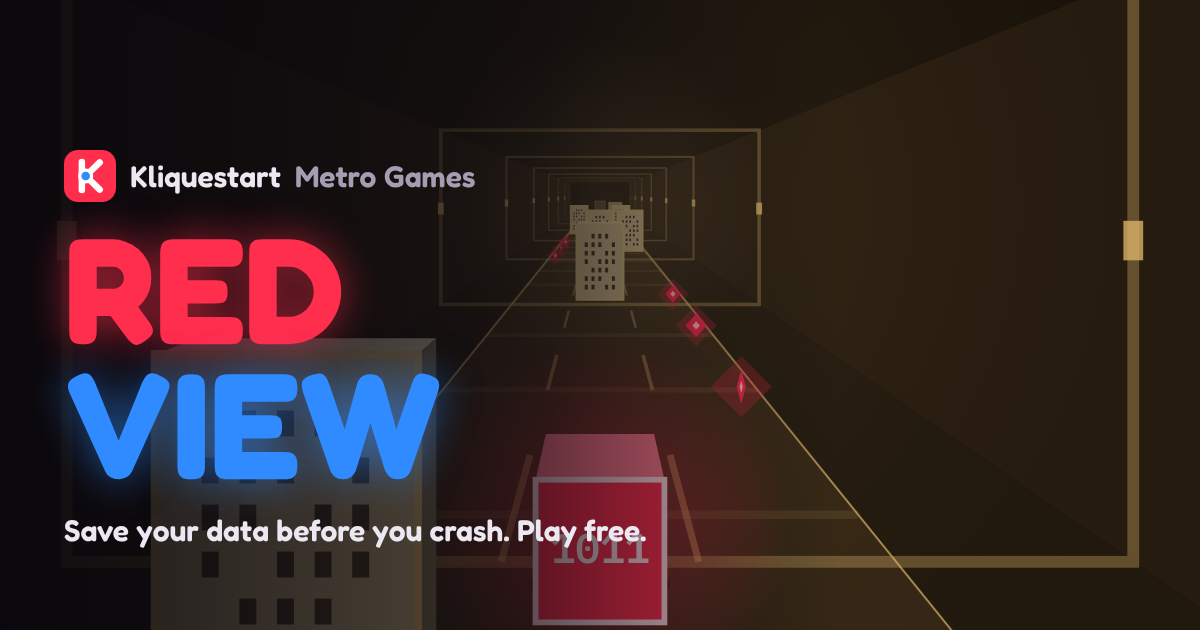
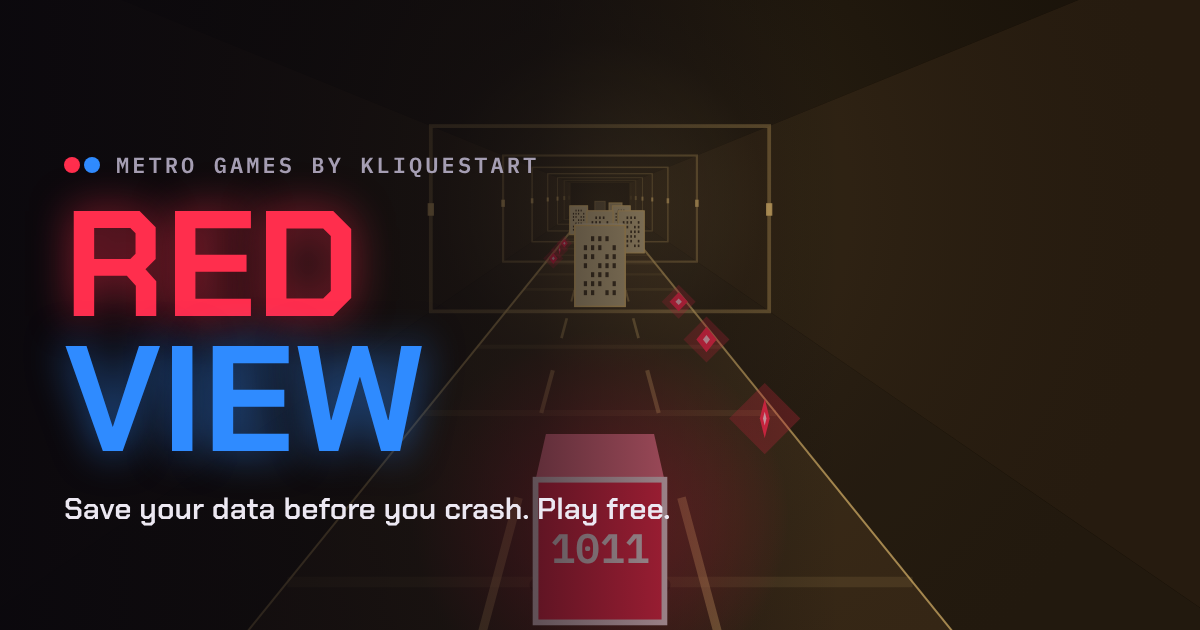
Restore original font and red-blue dots; rename to Metro Games by Kliquestart
- Back to Chakra Petch + IBM Plex Mono on the site and in the game
- Header and favicon back to the red and blue dots
- Brand line is now 'Metro Games by Kliquestart'
- Remove 'Owned by The Opinion Cut' and the contact email everywhere
- Regenerate social preview and icons

Claude-Session: https://claude.ai/code/session_015gerX6gSQdb389PLvD7BYD

diff --git a/games/red-view/play/index.html b/games/red-view/play/index.html
@@ -3,7 +3,7 @@
 <head>
 <meta charset="utf-8">
 <meta name="viewport" content="width=device-width, initial-scale=1, maximum-scale=1, user-scalable=no, viewport-fit=cover">
-<title>Play Red View – Free Online Runner | Kliquestart Metro Games</title>
+<title>Play Red View – Free Online Runner | Metro Games by Kliquestart</title>
 <meta name="description" content="Play Red View now: a free metro runner where you carry red data through 10 eras of tech and save it at blue gates.">
 <link rel="canonical" href="https://www.kliquestart.com/games/red-view/play/">
 <meta name="theme-color" content="#09070d">
@@ -17,7 +17,7 @@
 <!-- ANALYTICS: paste your Google Analytics or Cloudflare Web Analytics snippet here -->
 <link rel="preconnect" href="https://fonts.googleapis.com">
 <link rel="preconnect" href="https://fonts.gstatic.com" crossorigin>
-<link rel="stylesheet" href="https://fonts.googleapis.com/css2?family=Fredoka:wght@500;600;700&family=Nunito:wght@400;600;700&family=IBM+Plex+Mono:wght@400;600&display=swap">
+<link rel="stylesheet" href="https://fonts.googleapis.com/css2?family=Chakra+Petch:wght@500;600;700&family=IBM+Plex+Mono:wght@400;600&display=swap">
 <style>
 /* Layout: full-bleed canvas tunnel; HTML panels float over it like station signage. Single deliberate dark look. */
 :root{
@@ -29,7 +29,7 @@
   --red:#ff2e4d;            /* data, unsaved */
   --blue:#2f8bff;           /* saved */
   --gold:#f0c674;
-  --display:"Fredoka", "Nunito", "Segoe UI", system-ui, sans-serif;
+  --display:"Chakra Petch", "Segoe UI", system-ui, sans-serif;
   --mono:"IBM Plex Mono", ui-monospace, "SFMono-Regular", Menlo, monospace;
   color-scheme:dark;
 }
@@ -145,7 +145,7 @@ h1,h2,h3{margin:0;text-wrap:balance}
 
 <div id="menu" class="screen">
   <div class="panel">
-    <div class="eyebrow">Kliquestart Metro Games</div>
+    <div class="eyebrow">Metro Games by Kliquestart</div>
     <h1 class="logo"><span class="r">RED</span><span class="b">VIEW</span></h1>
     <p class="tag"><span class="r">Red</span> is your data. <span class="b">Blue</span> is saved. Run it through the tunnel from punch cards to quantum chips and get it saved before you crash.</p>
     <div class="btns">
@@ -748,7 +748,7 @@ function drawGate(z,label,fog){
   box(1.72,.08,0,2.1,z,z+.2,BLUE,'#7db6ff','#1d5fb8',null);
   const r=box(0,1.8,1.85,2.15,z,z+.2,BLUE,'#7db6ff','#1d5fb8',null);
   if(r && r.h>8){ ctx.fillStyle='#fff'; ctx.textAlign='center'; ctx.textBaseline='middle';
-    ctx.font=`700 ${Math.min(r.h*.75,64)}px "Fredoka", system-ui, sans-serif`; ctx.fillText(label,r.x+r.w/2,r.y+r.h/2+1); }
+    ctx.font=`700 ${Math.min(r.h*.75,64)}px "Chakra Petch", system-ui, sans-serif`; ctx.fillText(label,r.x+r.w/2,r.y+r.h/2+1); }
   ctx.globalAlpha=1;
 }
 function drawPlayer(g){
@@ -811,7 +811,7 @@ function renderGame(){
   // particles & texts
   for(const p of g.parts){ ctx.globalAlpha=Math.max(0,p.life); ctx.fillStyle=p.col; ctx.fillRect(p.x-p.size/2,p.y-p.size/2,p.size,p.size); }
   ctx.textAlign='center'; ctx.textBaseline='middle';
-  for(const t of g.texts){ ctx.globalAlpha=Math.min(1,t.life*1.5); ctx.fillStyle=t.col; ctx.font='700 22px "Fredoka", system-ui, sans-serif'; ctx.fillText(t.text,t.x,t.y); }
+  for(const t of g.texts){ ctx.globalAlpha=Math.min(1,t.life*1.5); ctx.fillStyle=t.col; ctx.font='700 22px "Chakra Petch", system-ui, sans-serif'; ctx.fillText(t.text,t.x,t.y); }
   ctx.globalAlpha=1;
   if(g.flashT>0){ ctx.globalAlpha=g.flashT*.9; ctx.fillStyle=g.flashCol; ctx.fillRect(0,0,W,H); ctx.globalAlpha=1; }
   // intro banner
@@ -822,14 +822,14 @@ function renderGame(){
     if(g.introKind==='start'){
       ctx.fillStyle=wd.accent; ctx.font='600 14px "IBM Plex Mono", monospace';
       ctx.fillText(`ERA ${L.wi+1} · ${wd.era} · LEVEL ${code(g.li)}`,W/2,H*.35);
-      ctx.fillStyle='#ece8f2'; ctx.font=`700 ${Math.min(52,W*.11)}px "Fredoka", system-ui, sans-serif`;
+      ctx.fillStyle='#ece8f2'; ctx.font=`700 ${Math.min(52,W*.11)}px "Chakra Petch", system-ui, sans-serif`;
       ctx.fillText(wd.name.toUpperCase(),W/2,H*.41);
-      ctx.fillStyle='#b9b2c6'; ctx.font='500 15px "Fredoka", system-ui, sans-serif';
+      ctx.fillStyle='#b9b2c6'; ctx.font='500 15px "Chakra Petch", system-ui, sans-serif';
       wrapText(L.sub===0?wd.fact:wd.tip,W/2,H*.475,Math.min(520,W-40),20);
     } else {
-      ctx.fillStyle=BLUE; ctx.font=`700 ${Math.min(40,W*.09)}px "Fredoka", system-ui, sans-serif`;
+      ctx.fillStyle=BLUE; ctx.font=`700 ${Math.min(40,W*.09)}px "Chakra Petch", system-ui, sans-serif`;
       ctx.fillText(g.introKind==='resume'?'CONTINUING FROM SAVE':'RESTORED FROM SAVE',W/2,H*.41);
-      ctx.fillStyle='#b9b2c6'; ctx.font='500 15px "Fredoka", system-ui, sans-serif';
+      ctx.fillStyle='#b9b2c6'; ctx.font='500 15px "Chakra Petch", system-ui, sans-serif';
       ctx.fillText(`Integrity ${g.lives} of 3. Blue data is safe.`,W/2,H*.475);
     }
     ctx.globalAlpha=1;

diff --git a/index.html b/index.html
@@ -3,13 +3,13 @@
 <head>
 <meta charset="utf-8">
 <meta name="viewport" content="width=device-width, initial-scale=1">
-<title>Kliquestart Metro Games – Free Browser Games</title>
-<meta name="description" content="Kliquestart Metro Games: quick, free games you can play in your browser on your phone or laptop. Play Red View, a metro runner through 10 eras of technology.">
+<title>Metro Games by Kliquestart – Free Browser Games</title>
+<meta name="description" content="Metro Games by Kliquestart: quick, free games you can play in your browser on your phone or laptop. Play Red View, a metro runner through 10 eras of technology.">
 <link rel="canonical" href="https://www.kliquestart.com/">
 <meta name="theme-color" content="#0b0910">
 <meta property="og:type" content="website">
-<meta property="og:site_name" content="Kliquestart Metro Games">
-<meta property="og:title" content="Kliquestart Metro Games – Quick games for the ride home">
+<meta property="og:site_name" content="Metro Games by Kliquestart">
+<meta property="og:title" content="Metro Games by Kliquestart – Quick games for the ride home">
 <meta property="og:description" content="Quick, free browser games for your phone or laptop. Play Red View now.">
 <meta property="og:url" content="https://www.kliquestart.com/">
 <meta property="og:image" content="https://www.kliquestart.com/assets/og-red-view.png">
@@ -21,12 +21,11 @@
 <link rel="manifest" href="site.webmanifest">
 <link rel="preconnect" href="https://fonts.googleapis.com">
 <link rel="preconnect" href="https://fonts.gstatic.com" crossorigin>
-<link rel="stylesheet" href="https://fonts.googleapis.com/css2?family=Fredoka:wght@500;600;700&family=Nunito:wght@400;600;700&display=swap">
+<link rel="stylesheet" href="https://fonts.googleapis.com/css2?family=Chakra+Petch:wght@500;600;700&family=IBM+Plex+Mono:wght@400;600&display=swap">
 <link rel="stylesheet" href="assets/site.css">
 <script type="application/ld+json">
 {"@context":"https://schema.org","@graph":[
- {"@type":"WebSite","name":"Kliquestart Metro Games","alternateName":"Kliquestart","url":"https://www.kliquestart.com/"},
- {"@type":"Organization","name":"The Opinion Cut","url":"https://www.kliquestart.com/","email":"opinioncut@gmail.com"},
+ {"@type":"WebSite","name":"Metro Games by Kliquestart","alternateName":"Kliquestart","url":"https://www.kliquestart.com/"},
  {"@type":"ItemList","name":"Metro Games","itemListElement":[
   {"@type":"ListItem","position":1,"url":"https://www.kliquestart.com/games/red-view/","name":"Red View"}
  ]}
@@ -38,7 +37,7 @@
 <body>
 <header class="top">
   <div class="wrap">
-    <a class="brand" href="./"><img src="assets/favicon.svg" alt="" width="34" height="34">Kliquestart <b>Metro Games</b></a>
+    <a class="brand" href="./"><i aria-hidden="true"></i>Metro Games <b>by Kliquestart</b></a>
   </div>
 </header>
 
@@ -80,8 +79,8 @@
 
 <footer class="foot">
   <div class="wrap">
-    <span>Kliquestart Metro Games · Owned by The Opinion Cut</span>
-    <nav><a href="about.html">About</a><a href="privacy.html">Privacy</a><a href="mailto:opinioncut@gmail.com">opinioncut@gmail.com</a></nav>
+    <span>Metro Games by Kliquestart</span>
+    <nav><a href="about.html">About</a><a href="privacy.html">Privacy</a></nav>
   </div>
 </footer>
 </body>

diff --git a/privacy.html b/privacy.html
@@ -3,26 +3,26 @@
 <head>
 <meta charset="utf-8">
 <meta name="viewport" content="width=device-width, initial-scale=1">
-<title>Privacy Policy | Kliquestart Metro Games</title>
-<meta name="description" content="How Kliquestart Metro Games handles your data, cookies and advertising.">
+<title>Privacy Policy | Metro Games by Kliquestart</title>
+<meta name="description" content="How Metro Games by Kliquestart handles your data, cookies and advertising.">
 <link rel="canonical" href="https://www.kliquestart.com/privacy.html">
 <meta name="theme-color" content="#0b0910">
 <link rel="icon" href="assets/favicon.svg" type="image/svg+xml">
 <link rel="preconnect" href="https://fonts.googleapis.com">
 <link rel="preconnect" href="https://fonts.gstatic.com" crossorigin>
-<link rel="stylesheet" href="https://fonts.googleapis.com/css2?family=Fredoka:wght@500;600;700&family=Nunito:wght@400;600;700&display=swap">
+<link rel="stylesheet" href="https://fonts.googleapis.com/css2?family=Chakra+Petch:wght@500;600;700&family=IBM+Plex+Mono:wght@400;600&display=swap">
 <link rel="stylesheet" href="assets/site.css">
 </head>
 <body>
 <header class="top">
   <div class="wrap">
-    <a class="brand" href="./"><img src="assets/favicon.svg" alt="" width="34" height="34">Kliquestart <b>Metro Games</b></a>
+    <a class="brand" href="./"><i aria-hidden="true"></i>Metro Games <b>by Kliquestart</b></a>
   </div>
 </header>
 <main class="wrap prose" style="padding-top:40px">
   <p class="eyebrow">Last updated October 2026</p>
   <h1 style="font-size:44px">Privacy policy</h1>
-  <p>Kliquestart Metro Games (www.kliquestart.com) is owned and operated by The Opinion Cut ("we"). This page explains what data is collected when you play our games.</p>
+  <p>Metro Games by Kliquestart ("we") runs www.kliquestart.com. This page explains what data is collected when you play our games.</p>
   <h2>Game progress</h2>
   <p>Your unlocked levels, stars, last save point and settings are stored in your browser's local storage on your own device. We do not receive this information. Clearing your browser data resets it.</p>
   <h2>Analytics</h2>
@@ -32,14 +32,12 @@
   <p>You can opt out of personalised advertising by visiting <a href="https://www.google.com/settings/ads">Google Ads Settings</a> or <a href="https://www.aboutads.info/choices/">www.aboutads.info</a>.</p>
   <h2>Children</h2>
   <p>Our games are for a general audience. We do not knowingly collect personal information from children.</p>
-  <h2>Contact</h2>
-  <p>Questions about this policy: <a href="mailto:opinioncut@gmail.com">opinioncut@gmail.com</a></p>
   <h2>Changes</h2>
   <p>We may update this policy. The date at the top shows the latest version.</p>
 </main>
 <footer class="foot">
   <div class="wrap">
-    <span>Kliquestart Metro Games · Owned by The Opinion Cut</span>
+    <span>Metro Games by Kliquestart</span>
     <nav><a href="./">All games</a><a href="about.html">About</a></nav>
   </div>
 </footer>

diff --git a/games/red-view/index.html b/games/red-view/index.html
@@ -8,7 +8,7 @@
 <link rel="canonical" href="https://www.kliquestart.com/games/red-view/">
 <meta name="theme-color" content="#0b0910">
 <meta property="og:type" content="website">
-<meta property="og:site_name" content="Kliquestart Metro Games">
+<meta property="og:site_name" content="Metro Games by Kliquestart">
 <meta property="og:title" content="Red View – Save your data before you crash">
 <meta property="og:description" content="A free metro runner: carry red data through 10 eras of tech and turn it blue at save gates.">
 <meta property="og:url" content="https://www.kliquestart.com/games/red-view/">
@@ -21,7 +21,7 @@
 <link rel="manifest" href="../../site.webmanifest">
 <link rel="preconnect" href="https://fonts.googleapis.com">
 <link rel="preconnect" href="https://fonts.gstatic.com" crossorigin>
-<link rel="stylesheet" href="https://fonts.googleapis.com/css2?family=Fredoka:wght@500;600;700&family=Nunito:wght@400;600;700&display=swap">
+<link rel="stylesheet" href="https://fonts.googleapis.com/css2?family=Chakra+Petch:wght@500;600;700&family=IBM+Plex+Mono:wght@400;600&display=swap">
 <link rel="stylesheet" href="../../assets/site.css">
 <script type="application/ld+json">
 {"@context":"https://schema.org","@graph":[
@@ -30,7 +30,7 @@
   "image":"https://www.kliquestart.com/assets/og-red-view.png","genre":["Runner","Arcade","Casual"],
   "gamePlatform":["Web browser","Mobile web"],"applicationCategory":"Game","operatingSystem":"Any",
   "playMode":"SinglePlayer","offers":{"@type":"Offer","price":"0","priceCurrency":"USD"},
-  "publisher":{"@type":"Organization","name":"The Opinion Cut","url":"https://www.kliquestart.com/"}},
+  "publisher":{"@type":"Organization","name":"Kliquestart","url":"https://www.kliquestart.com/"}},
  {"@type":"BreadcrumbList","itemListElement":[
   {"@type":"ListItem","position":1,"name":"Metro Games","item":"https://www.kliquestart.com/"},
   {"@type":"ListItem","position":2,"name":"Red View","item":"https://www.kliquestart.com/games/red-view/"}]}
@@ -42,7 +42,7 @@
 <body>
 <header class="top">
   <div class="wrap">
-    <a class="brand" href="../../"><img src="../../assets/favicon.svg" alt="" width="34" height="34">Kliquestart <b>Metro Games</b></a>
+    <a class="brand" href="../../"><i aria-hidden="true"></i>Metro Games <b>by Kliquestart</b></a>
   </div>
 </header>
 
@@ -99,7 +99,7 @@
 
 <footer class="foot">
   <div class="wrap">
-    <span>Kliquestart Metro Games · Owned by The Opinion Cut</span>
+    <span>Metro Games by Kliquestart</span>
     <nav><a href="../../">All games</a><a href="../../about.html">About</a><a href="../../privacy.html">Privacy</a></nav>
   </div>
 </footer>

diff --git a/about.html b/about.html
@@ -3,32 +3,30 @@
 <head>
 <meta charset="utf-8">
 <meta name="viewport" content="width=device-width, initial-scale=1">
-<title>About | Kliquestart Metro Games</title>
-<meta name="description" content="Kliquestart Metro Games is owned by The Opinion Cut. We make quick, free browser games.">
+<title>About | Metro Games by Kliquestart</title>
+<meta name="description" content="Metro Games by Kliquestart makes quick, free browser games.">
 <link rel="canonical" href="https://www.kliquestart.com/about.html">
 <meta name="theme-color" content="#0b0910">
 <link rel="icon" href="assets/favicon.svg" type="image/svg+xml">
 <link rel="preconnect" href="https://fonts.googleapis.com">
 <link rel="preconnect" href="https://fonts.gstatic.com" crossorigin>
-<link rel="stylesheet" href="https://fonts.googleapis.com/css2?family=Fredoka:wght@500;600;700&family=Nunito:wght@400;600;700&display=swap">
+<link rel="stylesheet" href="https://fonts.googleapis.com/css2?family=Chakra+Petch:wght@500;600;700&family=IBM+Plex+Mono:wght@400;600&display=swap">
 <link rel="stylesheet" href="assets/site.css">
 </head>
 <body>
 <header class="top">
   <div class="wrap">
-    <a class="brand" href="./"><img src="assets/favicon.svg" alt="" width="34" height="34">Kliquestart <b>Metro Games</b></a>
+    <a class="brand" href="./"><i aria-hidden="true"></i>Metro Games <b>by Kliquestart</b></a>
   </div>
 </header>
 <main class="wrap prose" style="padding-top:40px">
   <h1 style="font-size:44px">About us</h1>
-  <p>Kliquestart Metro Games is owned by <b>The Opinion Cut</b>. We make quick, free games that you can play in your browser, on the metro, on a break, or whenever you have a few minutes.</p>
+  <p>Metro Games by Kliquestart makes quick, free games that you can play in your browser, on the metro, on a break, or whenever you have a few minutes.</p>
   <p>Our first game is <a href="games/red-view/">Red View</a>, and more are on the way.</p>
-  <h2>Contact</h2>
-  <p>Questions, feedback or business enquiries: <a href="mailto:opinioncut@gmail.com">opinioncut@gmail.com</a></p>
 </main>
 <footer class="foot">
   <div class="wrap">
-    <span>Kliquestart Metro Games · Owned by The Opinion Cut</span>
+    <span>Metro Games by Kliquestart</span>
     <nav><a href="./">All games</a><a href="privacy.html">Privacy</a></nav>
   </div>
 </footer>

diff --git a/assets/site.css b/assets/site.css
@@ -1,4 +1,4 @@
-/* Kliquestart Metro Games — shared site styles.
+/* Metro Games by Kliquestart — shared site styles.
    Layout: a single metro line runs down the page; each game is a station on it. One deliberate dark look. */
 :root{
   --ink:#0b0910;
@@ -8,8 +8,9 @@
   --muted:#a59eb3;
   --red:#ff2e4d;
   --blue:#2f8bff;
-  --display:"Fredoka","Nunito","Segoe UI",system-ui,sans-serif;
-  --body:"Nunito","Segoe UI",system-ui,sans-serif;
+  --display:"Chakra Petch","Segoe UI",system-ui,sans-serif;
+  --body:"Chakra Petch","Segoe UI",system-ui,sans-serif;
+  --mono:"IBM Plex Mono",ui-monospace,"SFMono-Regular",Menlo,monospace;
   color-scheme:dark;
 }
 *{box-sizing:border-box}
@@ -26,7 +27,7 @@ h1,h2,h3{text-wrap:balance;margin:0;font-family:var(--display);font-weight:600}
 .top{border-bottom:1px solid var(--line)}
 .top .wrap{display:flex;align-items:center;justify-content:space-between;gap:12px;padding-block:14px;flex-wrap:wrap}
 .brand{display:flex;align-items:center;gap:10px;text-decoration:none;font-weight:600;font-size:21px}
-.brand img{width:34px;height:34px}
+.brand i{width:12px;height:12px;border-radius:50%;background:var(--red);box-shadow:15px 0 0 var(--blue);margin-right:15px}
 .brand b{color:var(--muted);font-weight:500}
 .foot{border-top:1px solid var(--line);margin-top:72px}
 .foot .wrap{display:flex;gap:16px;justify-content:space-between;flex-wrap:wrap;padding-block:24px;font-size:14px;color:var(--muted)}

diff --git a/404.html b/404.html
@@ -3,10 +3,10 @@
 <head>
 <meta charset="utf-8">
 <meta name="viewport" content="width=device-width, initial-scale=1">
-<title>Page not found | Kliquestart Metro Games</title>
+<title>Page not found | Metro Games by Kliquestart</title>
 <meta name="robots" content="noindex">
 <link rel="icon" href="/assets/favicon.svg" type="image/svg+xml">
-<link rel="stylesheet" href="https://fonts.googleapis.com/css2?family=Fredoka:wght@500;600;700&family=Nunito:wght@400;600;700&display=swap">
+<link rel="stylesheet" href="https://fonts.googleapis.com/css2?family=Chakra+Petch:wght@500;600;700&family=IBM+Plex+Mono:wght@400;600&display=swap">
 <link rel="stylesheet" href="/assets/site.css">
 </head>
 <body>

diff --git a/README.md b/README.md
@@ -1,4 +1,4 @@
-# Kliquestart Metro Games
+# Metro Games by Kliquestart
 
 The home of Metro Games: quick, free browser games, live at **https://www.kliquestart.com**.
 
@@ -8,7 +8,7 @@ The home of Metro Games: quick, free browser games, live at **https://www.klique
 | `/` | `index.html` | Home page, listing every game as a stop on the metro line |
 | `/games/red-view/` | `games/red-view/index.html` | Red View landing page (SEO text, FAQ, Play button) |
 | `/games/red-view/play/` | `games/red-view/play/index.html` | The game itself, full screen |
-| `/about.html` | `about.html` | About The Opinion Cut + contact |
+| `/about.html` | `about.html` | About page |
 | `/privacy.html` | `privacy.html` | Privacy policy (required by AdSense) |
 
 Other files: `sitemap.xml`, `robots.txt`, `CNAME` (custom domain for GitHub Pages), `site.webmanifest`, `404.html`, and `assets/` (styles, icons, social preview image).
